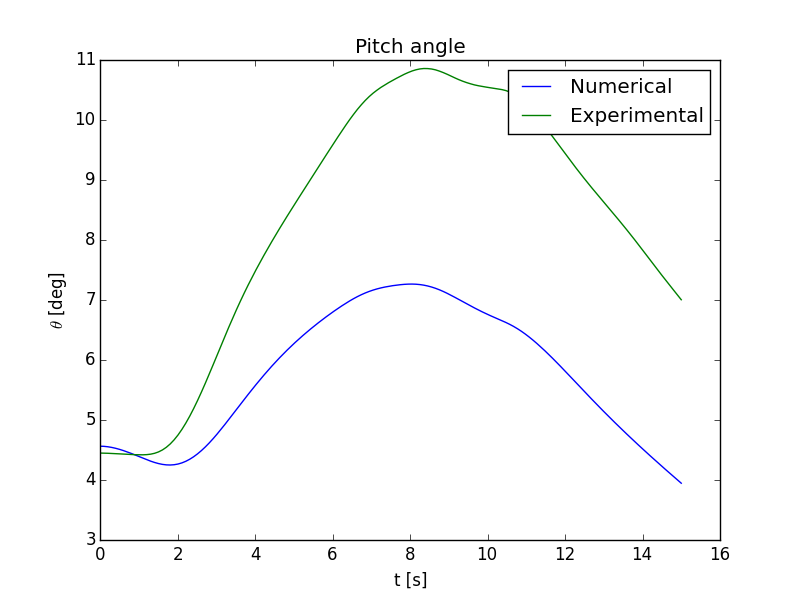
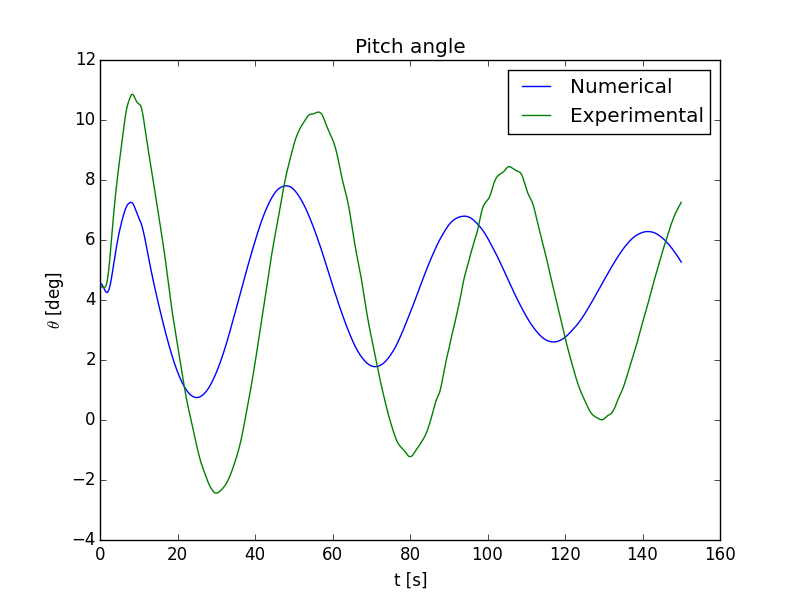
Beep Boop ik ben een robot

diff --git a/Numerical_Analysis_assymettric.py b/Numerical_Analysis_assymettric.py
@@ -9,6 +9,8 @@ import control.matlab as cs
 from Data_cruncher import *
 import matplotlib.pyplot as plt
 
+namem="Dutch Roll"
+
 def Asymetric(name):
     
     # Assigning coefficients to matrices
@@ -76,24 +78,42 @@ def Asymetric(name):
     y4 = y4*(180/np.pi)
     
     #plotting the total grpahs
-    plt.subplot(221)
-    plt.title('angle of sideslip')
-    plt.plot(t, y1)
-    
-    plt.subplot(222)
-    plt.title('roll angle')
-    plt.plot(t, y2)
-    plt.plot(t,name.RollAngle)
-    
-    
-    plt.subplot(223)
-    plt.title('p')
-    plt.plot(t, y3)
-    plt.plot(t,name.RollRate)
-    
-    plt.subplot(224)
-    plt.title('r')
-    plt.plot(t, y4)
-    plt.plot(t, name.YawRate)
-    
+    plt.figure(0)
+    plt.title('Angle of Sideslip ')
+    plt.plot(t, y1, label="Numerical")
+    plt.ylabel(r"$\beta$ [deg]")
+    plt.xlabel("t [s]")
+#    plt.plot(t, name.EAS, label="Experimental")
+    plt.legend()
+    plt.savefig((namem + "Angle of Sideslip"))
     plt.show()
+    
+    plt.figure(1)
+    plt.title('Roll Angle ')
+    plt.plot(t, y2, label="Numerical")
+    plt.ylabel("$\Phi$ [deg]")
+    plt.xlabel("t [s]")
+    plt.plot(t, name.RollAngle, label="Experimental")
+    plt.legend()
+    plt.savefig((namem + "RollAngle"))
+    plt.show()
+    
+    plt.figure(2)
+    plt.title('Roll Rate')
+    plt.plot(t, y3, label="Numerical")
+    plt.ylabel("p [deg/s]")
+    plt.xlabel("t [s]")
+    plt.plot(t, name.RollRate, label="Experimental")
+    plt.legend()
+    plt.savefig((namem + "RollRate"))
+    plt.show()
+
+    plt.figure(3)
+    plt.title('Yaw Rate')
+    plt.plot(t, y4, label="Numerical")
+    plt.ylabel("r [deg/s]")
+    plt.xlabel("t [s]")
+    plt.plot(t, name.YawRate, label="Experimental")
+    plt.legend()
+    plt.savefig((namem + "YawRate"))
+    plt.show()   

diff --git a/Data_cruncher.py b/Data_cruncher.py
@@ -66,7 +66,7 @@ class Motion:
 
 #phugoid motion
 phugoid_time    =   3600.*1. + 60.*15. + 40.
-phugoid_mt      =   15
+phugoid_mt      =   150
 Phugoid        =   Motion(phugoid_time,phugoid_mt)
 
 #short period
